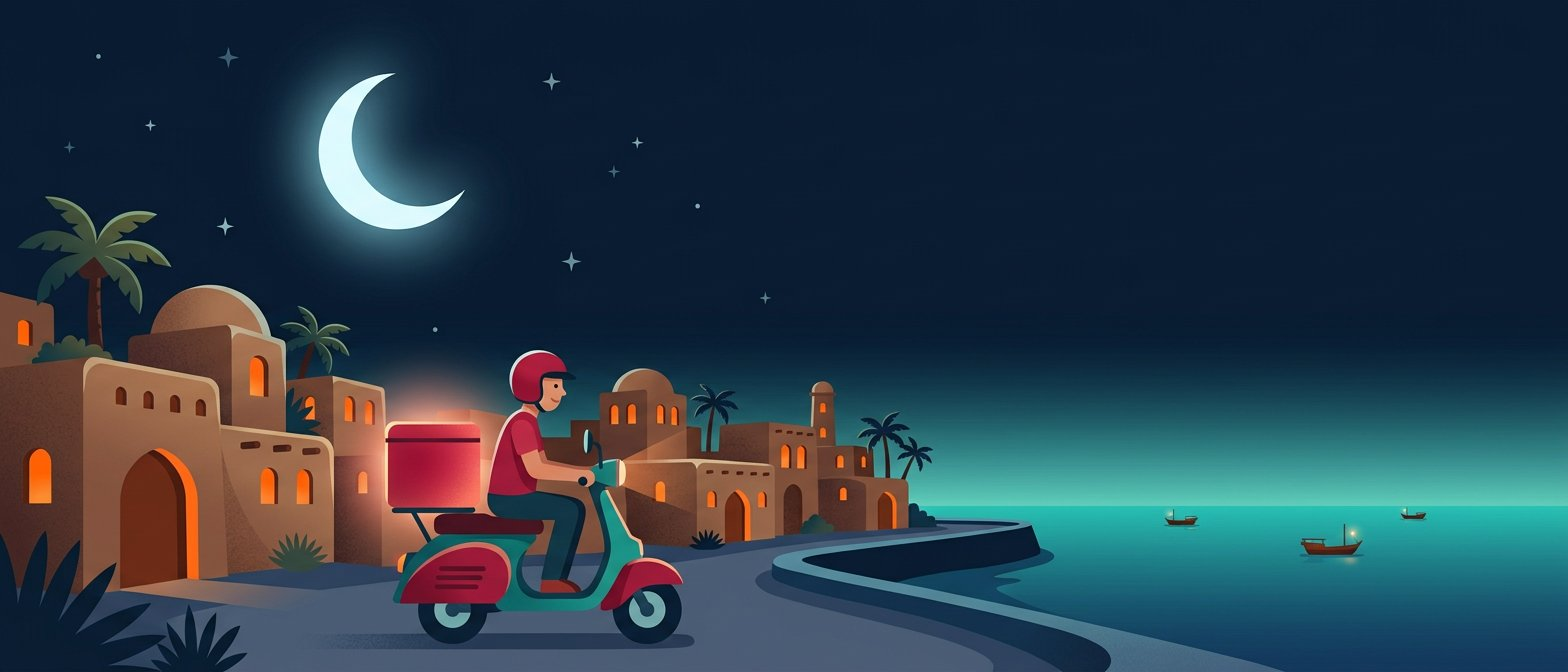
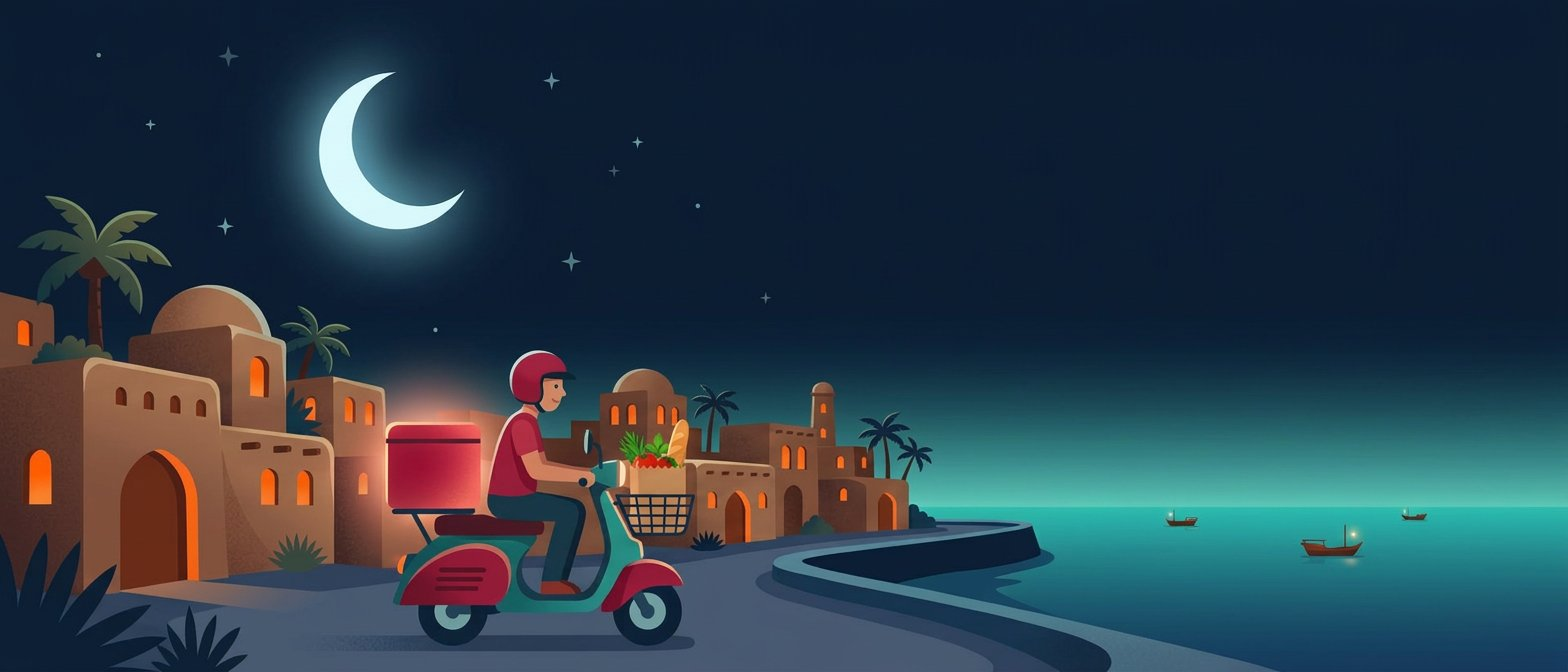
ویترین دو سرویسی: متنها و تصاویر تازه برای غذا و خرید از سوپرمارکت
- صفحهٔ اصلی: هیرو، جستوجو، دسترسی سریع، نوار اعتماد، بخش «امروز چی میخوای؟» و گامها برای هر دو سرویس بازنویسی شد
- باند تازهٔ #grocery با سه گام خرید خانه + دکمهٔ «شروع خرید خانه» و تب «خرید خانه» در نوار پایین
- تصاویر: hero-night.jpg بازسازی شد (جعبهٔ غذا + سبد خرید)، grocery-flow.jpg و cat-grocery.jpg اضافه شدند
- catalogImages: کلیدواژههای سوپرمارکت/میوه/لبنیات با تستهای تازه در storefront-assets.spec.ts
- متنهای عمومی: عنوان صفحه، manifest، README، هدر چکاوت و CSS بخش ۲۵

diff --git a/src/App.tsx b/src/App.tsx
@@ -1,7 +1,7 @@
 import { useEffect, useMemo, useState } from 'react';
 import { Search, MapPin, ShoppingBag, ChevronDown, Plus, Minus, X, ArrowLeft, Utensils, Bike, ShieldCheck, Clock3, Home, ClipboardList, Bell, Fish, ChefHat, Coffee, CakeSlice, Sparkles, Store, Wallet, ShoppingBasket } from 'lucide-react';
 import CheckoutFlow, { OrderSuccess } from './CheckoutFlow';
-import { HERO_IMAGE, photoFor } from './catalogImages';
+import { GROCERY_FLOW_IMAGE, HERO_IMAGE, photoFor } from './catalogImages';
 
 type Restaurant={id:string;name:string;description:string|null;regionName:string;regionSlug:string;deliveryFeeRial:string|null;categories:string[];accent:string;icon:string;time:string};
 type Product={id:string;name:string;description:string|null;priceRial:string;imageUrl?:string|null};
@@ -16,7 +16,7 @@ function App(){
  const [category,setCategory]=useState('همه');const [query,setQuery]=useState('');const [selected,setSelected]=useState<Restaurant|null>(null);
  const [menu,setMenu]=useState<Category[]>([]);const [menuLoading,setMenuLoading]=useState(false);const [menuError,setMenuError]=useState('');
  const [cart,setCart]=useState<Record<string,CartLine>>({});const [cartBusiness,setCartBusiness]=useState<string|null>(null);const [cartOpen,setCartOpen]=useState(false);const [checkoutOpen,setCheckoutOpen]=useState(false);const [cartMessage,setCartMessage]=useState('');const [order,setOrder]=useState<OrderResult|null>(null);
- useEffect(()=>{jsonRequest<Array<{id:string;name:string;description:string|null;region_name:string;region_slug:string;delivery_fee_rial:string|null;categories:string[]}>>('/api/v1/businesses?region=bandar-khamir').then(rows=>setRestaurants(rows.map((r,i)=>({id:r.id,name:r.name,description:r.description,regionName:r.region_name,regionSlug:r.region_slug,deliveryFeeRial:r.delivery_fee_rial,categories:r.categories||[],accent:accents[i%accents.length],icon:emojis[i%emojis.length],time:'زمان آمادهسازی با کسبوکار'})))).catch(e=>setLoadError((e as Error).message)).finally(()=>setLoading(false));},[]);
+ useEffect(()=>{jsonRequest<Array<{id:string;name:string;description:string|null;region_name:string;region_slug:string;delivery_fee_rial:string|null;categories:string[]}>>('/api/v1/businesses?region=bandar-khamir').then(rows=>setRestaurants(rows.map((r,i)=>({id:r.id,name:r.name,description:r.description,regionName:r.region_name,regionSlug:r.region_slug,deliveryFeeRial:r.delivery_fee_rial,categories:r.categories||[],accent:accents[i%accents.length],icon:emojis[i%emojis.length],time:'زمان آمادهسازی سفارش'})))).catch(e=>setLoadError((e as Error).message)).finally(()=>setLoading(false));},[]);
  useEffect(()=>{const refresh=()=>{const token=sessionStorage.getItem('jetino_customer_token');if(!token){setUnreadNotifications(0);return;}fetch('/api/v1/notifications',{headers:{Authorization:`Bearer ${token}`}}).then(r=>r.ok?r.json():null).then(data=>{if(data&&Number.isFinite(data.unreadCount))setUnreadNotifications(data.unreadCount);}).catch(()=>{});};refresh();window.addEventListener('focus',refresh);const timer=window.setInterval(refresh,60_000);return()=>{window.removeEventListener('focus',refresh);window.clearInterval(timer);};},[]);
  const categories=useMemo(()=>['همه',...new Set(restaurants.flatMap(r=>r.categories))],[restaurants]);
  const filtered=useMemo(()=>restaurants.filter(r=>(category==='همه'||r.categories.includes(category))&&(r.name+' '+(r.description||'')+' '+r.categories.join(' ')).toLocaleLowerCase().includes(query.toLocaleLowerCase())),[restaurants,category,query]);
@@ -28,21 +28,69 @@ function App(){
  const selectedCount=selected?Object.values(cart).filter(x=>x.businessId===selected.id).reduce((sum,x)=>sum+x.quantity,0):0;
  const checkout=()=>{setCartOpen(false);setCheckoutOpen(true);};
  return <div className="app-shell">
-  <header className="topbar"><a className="brand" href="#top"><span className="brand-mark">ج</span><span>جتینو<small>محلی، راحت، نزدیک</small></span></a><div className="address"><MapPin size={17}/><span><small>محدودهٔ فعلی</small><b>بندر خمیر</b></span><ChevronDown size={15}/></div><nav><a className="active" href="#restaurants"><Utensils size={15}/>رستورانها</a><a href="#how"><Sparkles size={15}/>چطور کار میکند؟</a><a href="/orders"><ClipboardList size={15}/>پیگیری سفارش</a><a href="/notifications" className="notification-nav-link"><Bell size={15}/>اعلانها{unreadNotifications>0&&<i className="notification-nav-count">{unreadNotifications>99?'۹۹+':new Intl.NumberFormat('fa-IR').format(unreadNotifications)}</i>}</a><a href="/business/orders"><Store size={15}/>ورود کسبوکار</a></nav><button className="cart-top" onClick={()=>setCartOpen(true)}><ShoppingBag size={17}/><span>سبد خرید</span>{count>0&&<i>{count}</i>}</button></header>
-  <main id="top"><section className="hero"><div className="hero-media"><img src={HERO_IMAGE.src} alt="" fetchPriority="high"/></div><div className="hero-copy"><div className="eyebrow"><span className="pulse"/> سفارش غذا در بندر خمیر</div><h1>طعم خوب،<br/><em>نزدیکِ خانهی تو</em></h1><p>از آشپزخانههای محلی بندر خمیر انتخاب کن؛ پیک را روی نقشه ببین و غذای گرم را دمِ در تحویل بگیر.</p><label className="searchbox"><Search size={19}/><input aria-label="جستوجوی رستوران یا غذا" value={query} onChange={e=>setQuery(e.target.value)} placeholder="اسم رستوران یا غذا را جستوجو کن"/></label><div className="hero-note"><span><ShieldCheck size={16}/> کد تحویل و هویت پیک</span><span><Bike size={17}/> پیگیری زندهٔ مسیر</span><span><Wallet size={16}/> پرداخت نقدی درِ خانه</span></div></div><div className="hero-art"><div className="sun"/><div className="plate"><span>🍽</span></div><div className="food-tag tag-one">🍋 تازه و محلی</div><div className="food-tag tag-two">🛵 تا دمِ در</div><div className="art-wave"/></div><div className="hero-bottom"><span>از بندر خمیر، برای بندر خمیر</span><span>یک شروع خوشمزه <b>↓</b></span></div></section>
+  <header className="topbar"><a className="brand" href="#top"><span className="brand-mark">ج</span><span>جتینو<small>محلی، راحت، نزدیک</small></span></a><div className="address"><MapPin size={17}/><span><small>محدودهٔ فعلی</small><b>بندر خمیر</b></span><ChevronDown size={15}/></div><nav><a className="active" href="#businesses"><Utensils size={15}/>غذا و خرید</a><a href="/grocery"><ShoppingBasket size={15}/>سوپرمارکت</a><a href="#how"><Sparkles size={15}/>چطور کار میکند؟</a><a href="/orders"><ClipboardList size={15}/>پیگیری سفارش</a><a href="/notifications" className="notification-nav-link"><Bell size={15}/>اعلانها{unreadNotifications>0&&<i className="notification-nav-count">{unreadNotifications>99?'۹۹+':new Intl.NumberFormat('fa-IR').format(unreadNotifications)}</i>}</a><a href="/business/orders"><Store size={15}/>ورود کسبوکار</a></nav><button className="cart-top" onClick={()=>setCartOpen(true)}><ShoppingBag size={17}/><span>سبد خرید</span>{count>0&&<i>{count}</i>}</button></header>
+  <main id="top"><section className="hero"><div className="hero-media"><img src={HERO_IMAGE.src} alt="" fetchPriority="high"/></div><div className="hero-copy"><div className="eyebrow"><span className="pulse"/> غذا و خرید روزانه در بندر خمیر</div>
+      <h1>غذای داغ، سبد پر،<br/><em>یک پیک تا درِ تو</em></h1>
+      <p>از رستورانهای محلی غذا سفارش بده یا لیست خرید خانه را به پیک بسپار؛ جتینو آشپزخانههای بندر خمیر را میشناسد و سبد خریدت را هم از سوپرمارکت پر میکند.</p>
+      <label className="searchbox"><Search size={19}/><input aria-label="جستوجوی رستوران، غذا یا سوپرمارکت" value={query} onChange={e=>setQuery(e.target.value)} placeholder="اسم رستوران، غذا یا سوپرمارکت را بنویس"/></label>
+      <div className="hero-note"><span><ShieldCheck size={16}/> هویت پیک</span><span><Bike size={17}/> پیگیری زنده</span><span><ShoppingBasket size={16}/> لیست خرید</span><span><Wallet size={16}/> نقدی یا کارتبهکارت</span></div>
+    </div><div className="hero-art"><div className="sun"/><div className="plate"><span>🍽</span></div><div className="food-tag tag-one">🍋 غذای داغ محلی</div><div className="food-tag tag-two">🛒 سبد خرید خانه</div><div className="art-wave"/></div><div className="hero-bottom"><span>از بندر خمیر، برای بندر خمیر</span><span>غذا یا خرید، هر دو <b>↓</b></span></div></section>
   <section className="quick-actions" aria-label="دسترسی سریع">
+    <button type="button" className="tile-btn" onClick={()=>{document.getElementById('businesses')?.scrollIntoView({behavior:'smooth'});}}><Utensils size={22}/><span>منوی امروز</span></button>
+    <button type="button" className="tile-btn grocery-tile" onClick={()=>{window.location.href='/grocery';}}><ShoppingBasket size={22}/><span>خرید خانه</span></button>
     <button type="button" className="tile-btn" onClick={()=>{window.location.href='/orders';}}><ClipboardList size={22}/><span>پیگیری سفارش</span></button>
-    <button type="button" className="tile-btn" onClick={()=>{document.getElementById('restaurants')?.scrollIntoView({behavior:'smooth'});}}><Utensils size={22}/><span>منوی امروز</span></button>
     <button type="button" className="tile-btn" onClick={()=>{window.location.href='/join/driver';}}><Bike size={22}/><span>پیک شو</span></button>
-    <button type="button" className="tile-btn" onClick={()=>{window.location.href='/join/business';}}><Store size={22}/><span>ثبت کسبوکار</span></button>
-    <button type="button" className="tile-btn" onClick={()=>{window.location.href='/grocery';}}><ShoppingBasket size={22}/><span>خرید از سوپرمارکت</span></button>
+</section>
+  <section className="trust-strip">
+    <div><strong>محلی و نزدیک</strong><span>رستورانها و سوپرمارکتهای شهر</span></div>
+    <div><strong>غذا و خرید</strong><span>یک اپ، دو سرویس</span></div>
+    <div><strong>شفاف و ساده</strong><span>هزینهها پیش از سفارش</span></div>
+    <div><strong>پرداخت دلخواه</strong><span>نقدی یا کارتبهکارت</span></div>
+    <span className="strip-icon">✳</span>
   </section>
-  <section className="trust-strip"><div><strong>محلی و نزدیک</strong><span>انتخاب کسبوکارهای شهر</span></div><div><strong>شفاف و ساده</strong><span>هزینهها پیش از ثبت سفارش</span></div><div><strong>پرداخت نقدی</strong><span>هزینه هنگام تحویل</span></div><span className="strip-icon">✳</span></section>
-  <section id="restaurants" className="listing"><div className="section-head"><div><div className="eyebrow muted">پیشنهادهای جتینو</div><h2>چی هوس کردی؟</h2></div><span className="filter-button">{filtered.length} کسبوکار <ChevronDown size={15}/></span></div><div className="categories">{categories.map((c,i)=>{const Icon=[Sparkles,Fish,ChefHat,Coffee,CakeSlice,Utensils][i%6]||Utensils;return <button key={c} className={category===c?'chosen':''} onClick={()=>setCategory(c)}><Icon size={14}/>{c}</button>;})}</div><div className="result-count">{loading?'در حال دریافت فهرست کسبوکارها…':`${filtered.length} کسبوکار برای انتخاب تو`}</div><div className="restaurant-grid">{loading&&Array.from({length:3},(_,i)=><div className="skeleton skeleton-card" aria-hidden="true" key={i}/>)}{filtered.map(r=><button className="restaurant-card" key={r.id} onClick={()=>void openBusiness(r)}><div className={`restaurant-image ${r.accent}`}><img className="object-cover" src={photoFor(r.name,...r.categories).src} alt="" loading="lazy"/><span className="ribbon">{r.regionName}</span><span className="photo-label">تصویر پیشنهادی</span></div><div className="card-info"><div className="card-title"><h3>{r.name}</h3><span className="rating"><MapPin size={13}/>محلی</span></div><p>{r.categories.join(' · ')||'منوی غذایی'}</p><div className="card-meta"><span><Clock3 size={14}/>{r.time}</span><span className="dot">·</span><span>ارسال {r.deliveryFeeRial===null?'هزینه نامشخص':money(r.deliveryFeeRial)}</span></div></div></button>)}</div>{!loading&&filtered.length===0&&<div className="empty">{loadError?`دریافت فهرست ناموفق بود (${loadError})؛ اتصال API و دیتابیس را بررسی کنید.`:'در این دسته هنوز کسبوکار فعالی ثبت نشده است.'}</div>}</section>
-  <section className="how" id="how"><div className="how-heading"><div className="eyebrow muted">سفارش، بیدردسر</div><h2>از انتخاب تا تحویل،<br/>همهچیز روشنه.</h2></div><div className="steps"><div><b>۰۱</b><span>کشف کن</span><p>از بین کسبوکارهای محلی، انتخاب کن.</p></div><div><b>۰۲</b><span>سفارش بده</span><p>منو را ببین و غذای دلخواهت را اضافه کن.</p></div><div><b>۰۳</b><span>لذت ببر</span><p>پرداخت را نقدی هنگام تحویل انجام بده.</p></div></div></section>
-  </main><nav className="tabbar" aria-label="دسترسی سریع"><a className="active" href="#top"><Home size={20}/>خانه</a><a href="/orders"><ClipboardList size={20}/>سفارشها</a><a href="/notifications"><Bell size={20}/>اعلانها{unreadNotifications>0&&<span>{new Intl.NumberFormat("fa-IR").format(unreadNotifications)}</span>}</a><button type="button" onClick={()=>setCartOpen(true)}><ShoppingBag size={20}/>سبد خرید{count>0&&<span>{new Intl.NumberFormat("fa-IR").format(count)}</span>}</button></nav><footer><a className="brand" href="#top"><span className="brand-mark">ج</span><span>جتینو<small>محلی، راحت، نزدیک</small></span></a><span>ساختهشده با عشق برای بندر خمیر <b>♥</b></span><a className="footer-link" href="/orders">پیگیری سفارش</a><a className="footer-link" href="/notifications">اعلانها</a><a className="footer-link" href="/join/business">ثبت کسبوکار</a><a className="footer-link" href="/join/driver">ثبتنام راننده</a><a className="footer-link" href="/business/orders">پنل کسبوکار</a><a className="footer-link" href="/driver/deliveries">ورود راننده</a><span>© جتینو ۱۴۰۵</span></footer>
+
+  <section id="grocery" className="grocery-band" aria-labelledby="grocery-title">
+    <div className="grocery-band-copy">
+      <div className="eyebrow"><ShoppingBasket size={14}/> سوپرمارکت با جتینو</div>
+      <h2 id="grocery-title">لیست بنویس،<br/><em>پیک خرید را میآورد</em></h2>
+      <p>لازم نیست از خانه بیرون بزنی. لیست خریدت را مینویسی، پیکهای محلی قیمت ماموریت میدهند و بعد از پرداخت کرایه، خرید انجام و دمِ در تحویل میشود.</p>
+      <ol className="grocery-band-steps">
+        <li><b>۱</b><span>لیست را بنویس</span><small>«۲ کیلو سیب، نان، ماست و…»</small></li>
+        <li><b>۲</b><span>پیشنهاد پیک را ببین</span><small>قیمت ماموریت شفاف و قابل انتخاب</small></li>
+        <li><b>۳</b><span>فاکتور و تحویل</span><small>تأیید فاکتور، پرداخت و پیگیری زنده</small></li>
+      </ol>
+      <div className="grocery-band-actions">
+        <a className="grocery-band-cta" href="/grocery">شروع خرید خانه <ArrowLeft size={16}/></a>
+        <span className="grocery-band-note">سوپرمارکتهای شهر هم بهزودی سبد محصولاتشان را میگذارند.</span>
+      </div>
+    </div>
+    <div className="grocery-band-media">
+      <img src={GROCERY_FLOW_IMAGE.src} alt={GROCERY_FLOW_IMAGE.alt} loading="lazy"/>
+    </div>
+  </section>
+
+  <section id="businesses" className="listing"><div className="section-head"><div><div className="eyebrow muted">از آشپزخانه تا قفسهٔ سوپرمارکت</div><h2>امروز چی میخوای؟</h2></div><span className="filter-button">{filtered.length} کسبوکار <ChevronDown size={15}/></span></div><div className="categories">{categories.map((c,i)=>{const Icon=[Sparkles,Fish,ChefHat,Coffee,CakeSlice,Utensils][i%6]||Utensils;return <button key={c} className={category===c?'chosen':''} onClick={()=>setCategory(c)}><Icon size={14}/>{c}</button>;})}</div><div className="result-count">{loading?'در حال دریافت فهرست کسبوکارها…':`${filtered.length} کسبوکار برای انتخاب تو · غذا و خرید خانه`}</div><div className="restaurant-grid">{loading&&Array.from({length:3},(_,i)=><div className="skeleton skeleton-card" aria-hidden="true" key={i}/>)}{filtered.map(r=><button className="restaurant-card" key={r.id} onClick={()=>void openBusiness(r)}><div className={`restaurant-image ${r.accent}`}><img className="object-cover" src={photoFor(r.name,...r.categories).src} alt="" loading="lazy"/><span className="ribbon">{r.regionName}</span><span className="photo-label">تصویر پیشنهادی</span></div><div className="card-info"><div className="card-title"><h3>{r.name}</h3><span className="rating"><MapPin size={13}/>محلی</span></div><p>{r.categories.join(' · ')||'منوی غذایی'}</p><div className="card-meta"><span><Clock3 size={14}/>{r.time}</span><span className="dot">·</span><span>ارسال {r.deliveryFeeRial===null?'هزینه نامشخص':money(r.deliveryFeeRial)}</span></div></div></button>)}</div>{!loading&&filtered.length===0&&<div className="empty">{loadError?`دریافت فهرست ناموفق بود (${loadError})؛ اتصال API و دیتابیس را بررسی کنید.`:'در این دسته هنوز کسبوکاری ثبت نشده است؛ دستهٔ دیگری را امتحان کن.'}</div>}</section>
+  <section className="how" id="how">
+    <div className="how-heading">
+      <div className="eyebrow muted">دو سرویس، یک پیک</div>
+      <h2>سفارش غذا یا خرید خانه،<br/>هر دو ساده.</h2>
+    </div>
+    <div className="steps">
+      <div><b>۰۱</b><span>کشف کن</span><p>از رستورانها و سوپرمارکتهای محلی انتخاب کن.</p></div>
+      <div><b>۰۲</b><span>سفارش بده</span><p>از منو انتخاب کن یا لیست خریدت را بنویس.</p></div>
+      <div><b>۰۳</b><span>تأیید کن</span><p>هزینهٔ ارسال یا ماموریت را شفاف ببین و تأیید کن.</p></div>
+      <div><b>۰۴</b><span>تحویل بگیر</span><p>مسیر را زنده ببین و نقدی یا کارتبهکارت پرداخت کن.</p></div>
+    </div>
+  </section>
+  </main><nav className="tabbar" aria-label="دسترسی سریع">
+    <a className="active" href="#top"><Home size={20}/>خانه</a>
+    <a href="#businesses"><Utensils size={20}/>غذا</a>
+    <a href="/grocery"><ShoppingBasket size={20}/>خرید خانه</a>
+    <a href="/orders"><ClipboardList size={20}/>سفارشها</a>
+    <a href="/notifications"><Bell size={20}/>اعلانها{unreadNotifications>0&&<span>{new Intl.NumberFormat('fa-IR').format(unreadNotifications)}</span>}</a>
+  </nav><footer><a className="brand" href="#top"><span className="brand-mark">ج</span><span>جتینو<small>محلی، راحت، نزدیک</small></span></a><span>ساختهشده با عشق برای بندر خمیر <b>♥</b></span><a className="footer-link" href="/orders">پیگیری سفارش</a><a className="footer-link" href="/grocery">خرید از سوپرمارکت</a><a className="footer-link" href="/notifications">اعلانها</a><a className="footer-link" href="/join/business">ثبت کسبوکار</a><a className="footer-link" href="/join/driver">ثبتنام راننده</a><a className="footer-link" href="/business/orders">پنل کسبوکار</a><a className="footer-link" href="/driver/deliveries">ورود راننده</a><span>© جتینو ۱۴۰۵</span></footer>
   {selected&&<div className="overlay" onClick={()=>setSelected(null)}><div className="modal" onClick={e=>e.stopPropagation()}><button className="close" aria-label="بستن منو" onClick={()=>setSelected(null)}><X size={19}/></button><div className={`modal-cover ${selected.accent}`}><img src={photoFor(selected.name,...selected.categories).src} alt=""/><span className="photo-label">تصویر پیشنهادی</span></div><div className="modal-body"><div className="card-title"><div><h2>{selected.name}</h2><p>{selected.categories.join(' · ')||selected.regionName}</p></div><span className="rating"><MapPin size={14}/>{selected.regionName}</span></div><div className="modal-meta"><span><Clock3 size={15}/>{selected.time}</span><span>ارسال {selected.deliveryFeeRial===null?'هزینه نامشخص':money(selected.deliveryFeeRial)}</span></div><h3 className="menu-title">منو</h3>{menuLoading?<div className="menu-loading">در حال دریافت منو…</div>:menuError?<div className="empty">دریافت منو ناموفق بود: {menuError}</div>:menu.flatMap(c=>c.products.map(p=><div className="dish" key={p.id}><div className={`dish-emoji${p.imageUrl?' real-photo':''}`}><img src={p.imageUrl||photoFor(p.name,c.name).src} alt={p.imageUrl?p.name:''} loading="lazy"/></div><div className="dish-info"><b>{p.name}</b><small>{p.description||c.name}</small><strong>{money(p.priceRial)}</strong></div><div className="dish-actions">{cart[p.id]&&<button className="quantity-mini" aria-label={`کم کردن ${p.name}`} onClick={()=>remove(p.id)}><Minus size={13}/></button>}<button className="add" aria-label="افزودن به سبد" onClick={()=>add(p,selected)}>{cart[p.id]?.quantity||<Plus size={18}/>}</button></div></div>))}{cartMessage&&<div className="checkout-error">{cartMessage}<button onClick={clearCart}>خالی کردن سبد</button></div>}</div><button className="modal-cart" disabled={selectedCount===0} onClick={()=>{setSelected(null);setCartOpen(true);}}>دیدن سبد خرید <ArrowLeft size={17}/>{selectedCount>0&&<span>{selectedCount} قلم</span>}</button></div></div>}
-  {cartOpen&&<div className="overlay" onClick={()=>setCartOpen(false)}><div className="cart-drawer" onClick={e=>e.stopPropagation()}><div className="drawer-head"><div><h2>سبد خرید</h2><span>{count} قلم · {lines[0]?.businessId?restaurants.find(r=>r.id===lines[0].businessId)?.name:''}</span></div><button className="close" aria-label="بستن سبد خرید" onClick={()=>setCartOpen(false)}><X/></button></div>{count? <><div className="cart-lines">{lines.map(item=><div className="cart-line" key={item.productId}><span><img src={item.imageUrl||photoFor(item.name).src} alt="" loading="lazy"/></span><div><b>{item.name}</b><small>{money(item.priceRial)}</small></div><div className="quantity"><button aria-label={`کم کردن ${item.name}`} onClick={()=>remove(item.productId)}><Minus size={14}/></button>{item.quantity}<button aria-label={`افزودن ${item.name}`} onClick={()=>add({id:item.productId,name:item.name,description:item.description,priceRial:item.priceRial},restaurants.find(r=>r.id===item.businessId)!)}><Plus size={14}/></button></div></div>)}</div><div className="cart-total"><span>جمع اقلام</span><b>{money(subtotal)}</b></div>{cartMessage&&<div className="checkout-error">{cartMessage}</div>}<button className="checkout" onClick={checkout}>ادامه و ثبت سفارش نقدی <ArrowLeft size={17}/></button><button className="text-button" onClick={clearCart}>خالی کردن سبد</button></>:<div className="cart-empty"><span>🛍</span><h3>سبدت هنوز خالیه</h3><p>یک کسبوکار انتخاب کن و خوراکی دلخواهت را پیدا کن.</p><button onClick={()=>setCartOpen(false)}>رفتن به رستورانها</button></div>}</div></div>}
+  {cartOpen&&<div className="overlay" onClick={()=>setCartOpen(false)}><div className="cart-drawer" onClick={e=>e.stopPropagation()}><div className="drawer-head"><div><h2>سبد خرید</h2><span>{count} قلم · {lines[0]?.businessId?restaurants.find(r=>r.id===lines[0].businessId)?.name:''}</span></div><button className="close" aria-label="بستن سبد خرید" onClick={()=>setCartOpen(false)}><X/></button></div>{count? <><div className="cart-lines">{lines.map(item=><div className="cart-line" key={item.productId}><span><img src={item.imageUrl||photoFor(item.name).src} alt="" loading="lazy"/></span><div><b>{item.name}</b><small>{money(item.priceRial)}</small></div><div className="quantity"><button aria-label={`کم کردن ${item.name}`} onClick={()=>remove(item.productId)}><Minus size={14}/></button>{item.quantity}<button aria-label={`افزودن ${item.name}`} onClick={()=>add({id:item.productId,name:item.name,description:item.description,priceRial:item.priceRial},restaurants.find(r=>r.id===item.businessId)!)}><Plus size={14}/></button></div></div>)}</div><div className="cart-total"><span>جمع اقلام</span><b>{money(subtotal)}</b></div>{cartMessage&&<div className="checkout-error">{cartMessage}</div>}<button className="checkout" onClick={checkout}>ادامه و ثبت سفارش نقدی <ArrowLeft size={17}/></button><button className="text-button" onClick={clearCart}>خالی کردن سبد</button></>:<div className="cart-empty"><span>🛍</span><h3>سبدت هنوز خالیه</h3><p>یک کسبوکار انتخاب کن؛ غذا یا خرید خانه، هرچه لازم داری.</p><button onClick={()=>setCartOpen(false)}>دیدن کسبوکارها</button></div>}</div></div>}
   {checkoutOpen&&cartBusiness&&<CheckoutFlow businessId={cartBusiness} businessName={restaurants.find(r=>r.id===cartBusiness)?.name||'کسبوکار'} items={lines} onClose={()=>setCheckoutOpen(false)} onComplete={created=>{setCheckoutOpen(false);clearCart();setOrder(created);}}/>}
   {order&&<OrderSuccess order={order} onClose={()=>setOrder(null)}/>}
  </div>

diff --git a/src/CheckoutFlow.tsx b/src/CheckoutFlow.tsx
@@ -32,7 +32,7 @@ export default function CheckoutFlow({businessId,businessName,items,onClose,onCo
  const getQuote=async()=>{setBusy(true);setError('');setQuote(null);try{const result=await request<Quote>('/api/v1/orders/quote',token,'POST',{businessId,addressId:selectedAddress,items:items.map(item=>({productId:item.productId,quantity:item.quantity}))});setQuote(result);setNotice('مبلغ بر اساس قیمت فعلی سرور محاسبه شد.');}catch(e){setError((e as Error).message);}finally{setBusy(false);}};
  const placeOrder=async()=>{setBusy(true);setError('');try{idempotencyKey.current??=crypto.randomUUID();const order=await request<OrderResult>('/api/v1/orders',token,'POST',{businessId,addressId:selectedAddress,paymentMethod:'CASH',items:items.map(item=>({productId:item.productId,quantity:item.quantity}))},{'Idempotency-Key':idempotencyKey.current});idempotencyKey.current=null;onComplete(order);}catch(e){setError((e as Error).message);}finally{setBusy(false);}};
  const totalItems=items.reduce((sum,item)=>sum+item.quantity,0);
- return <div className="overlay checkout-overlay" onClick={onClose}><section className="checkout-panel" role="dialog" aria-modal="true" aria-label="تکمیل سفارش" onClick={e=>e.stopPropagation()}><header className="checkout-head"><div><small>ثبت سفارش</small><h2>یک قدم تا غذای خوشمزه</h2></div><button className="close" onClick={onClose}><X size={19}/></button></header>
+ return <div className="overlay checkout-overlay" onClick={onClose}><section className="checkout-panel" role="dialog" aria-modal="true" aria-label="تکمیل سفارش" onClick={e=>e.stopPropagation()}><header className="checkout-head"><div><small>ثبت سفارش</small><h2>یک قدم تا تحویل سفارش</h2></div><button className="close" onClick={onClose}><X size={19}/></button></header>
  {!token?<div className="checkout-body"><div className="checkout-step-title"><b>۱</b><div><strong>ورود با شماره موبایل</strong><small>برای ثبت و پیگیری سفارش</small></div></div>{authStep==='phone'?<><label className="checkout-label">شماره موبایل</label><input className="checkout-input" value={phone} onChange={e=>setPhone(toAsciiDigits(e.target.value))} placeholder="۰۹۱۲۳۴۵۶۷۸۹" inputMode="tel"/><button className="checkout-action" disabled={busy||!phone.trim()} onClick={sendCode}>{busy?'در حال ارسال…':'دریافت کد پیامکی'}<ArrowLeft size={16}/></button></>:<><label className="checkout-label">کد پیامکشده</label><input className="checkout-input otp-entry" value={code} onChange={e=>setCode(toAsciiDigits(e.target.value).replace(/\D/g,'').slice(0,6))} placeholder="کد ۶ رقمی" inputMode="numeric"/><button className="checkout-action" disabled={busy||code.length!==6} onClick={verify}>{busy?'در حال بررسی…':'تأیید و ادامه'}<ArrowLeft size={16}/></button><button className="checkout-back" onClick={()=>setAuthStep('phone')}>ویرایش شماره</button></>}</div>:<div className="checkout-body"><div className="checkout-step-title"><b>۱</b><div><strong>نشانی تحویل</strong><small>سفارش از {businessName}</small></div></div>{addresses.length>0&&<><label className="checkout-label">انتخاب نشانی ذخیرهشده</label><select className="checkout-input address-select" value={selectedAddress} onChange={e=>{setSelectedAddress(e.target.value);setQuote(null);}}>{addresses.map(a=><option key={a.id} value={a.id}>{a.label} — {a.addressText}</option>)}</select><div className="address-actions"><button type="button" className="outline-action" disabled={busy||!selectedAddress} onClick={startEditAddress}><Pencil size={14}/>ویرایش نشانی و نقطه</button>{!addresses.find(a=>a.id===selectedAddress)?.isDefault&&<button type="button" className="outline-action" disabled={busy||!selectedAddress} onClick={makeDefaultAddress}><Star size={14}/>پیشفرضکردن</button>}<button type="button" className="address-delete" disabled={busy||!selectedAddress} onClick={()=>void deleteAddress()}><Trash2 size={14}/>حذف</button></div></>}
  <details className="address-form" open={addressFormOpen} onToggle={e=>setAddressFormOpen(e.currentTarget.open)}><summary><MapPin size={15}/>{editingAddressId?'ویرایش نشانی':addresses.length?'افزودن نشانی جدید':'ثبت نشانی تحویل'}</summary><button type="button" className="outline-action location-action" onClick={locate} disabled={locating||busy}><MapPin size={15}/>{locating?'در حال دریافت موقعیت…':'استفاده از موقعیت فعلی'}</button>{addressFormOpen&&(import.meta.env.VITE_NESHAN_API_KEY?<Suspense fallback={<div className="map-unavailable">در حال بارگذاری نقشهٔ نشان…</div>}><NeshanMapPicker value={coordinates?.latitude&&coordinates?.longitude?{latitude:Number(coordinates.latitude),longitude:Number(coordinates.longitude)}:null} onChange={point=>setCoordinates({latitude:point.latitude.toFixed(6),longitude:point.longitude.toFixed(6)})}/></Suspense>:<div className="map-unavailable">برای نمایش نقشهٔ نشان، کلید عمومی را در <code>VITE_NESHAN_API_KEY</code> تنظیم کنید. ورود مختصات دستی همچنان در دسترس است.</div>)}<div className="manual-coordinates"><label className="checkout-label">عرض جغرافیایی (اختیاری)<input className="checkout-input" type="number" min="-90" max="90" step="0.000001" value={coordinates?.latitude||''} onChange={e=>setCoordinates({latitude:e.target.value,longitude:coordinates?.longitude||''})} placeholder="مثلاً 27.20"/></label><label className="checkout-label">طول جغرافیایی (اختیاری)<input className="checkout-input" type="number" min="-180" max="180" step="0.000001" value={coordinates?.longitude||''} onChange={e=>setCoordinates({latitude:coordinates?.latitude||'',longitude:e.target.value})} placeholder="مثلاً 55.75"/></label></div>{coordinates?.latitude&&coordinates?.longitude&&<small className="location-coordinates">مختصات این نشانی: {coordinates.latitude}, {coordinates.longitude}</small>}<label className="checkout-label">عنوان نشانی</label><input className="checkout-input" value={newLabel} onChange={e=>setNewLabel(e.target.value)} placeholder="خانه، محل کار…"/><label className="checkout-label">آدرس کامل</label><textarea className="checkout-input address-textarea" value={newAddress} onChange={e=>setNewAddress(e.target.value)} placeholder="خیابان، کوچه، پلاک و نشانهٔ نزدیک"/><label className="checkout-label">توضیحات تحویل (اختیاری)</label><input className="checkout-input" value={instructions} onChange={e=>setInstructions(e.target.value)} placeholder="مثلاً زنگ واحد ۲ را بزنید"/><button className="outline-action" disabled={busy||!newAddress.trim()} onClick={saveAddress}>{editingAddressId?'ذخیرهٔ تغییرات':'ذخیرهٔ نشانی'}</button>{editingAddressId&&<button className="checkout-back" disabled={busy} onClick={()=>{setEditingAddressId(null);setCoordinates(null);setNewAddress('');setInstructions('');setAddressFormOpen(false);}}>انصراف از ویرایش</button>}</details>
  {selectedAddress&&<button className="outline-action quote-action" disabled={busy} onClick={getQuote}>{busy?'در حال محاسبه…':'محاسبهٔ مبلغ نهایی'}</button>}

diff --git a/src/next.css b/src/next.css
@@ -864,3 +864,55 @@ input[type="checkbox"], input[type="radio"] { accent-color: var(--brand-bright);
 .ltr-input { direction: ltr; text-align: left; letter-spacing: .06em; font-variant-numeric: tabular-nums; }
 .ltr-hint { direction: rtl; text-align: right; }
 .grocery-copy-text b { letter-spacing: .05em; }
+
+/* ۲۵) دو سرویس: غذا و خرید خانه (باند سوپرمارکت در صفحهٔ اصلی) */
+.quick-actions .grocery-tile {
+  background: linear-gradient(150deg, color-mix(in srgb, var(--brand) 22%, var(--surface)), var(--surface));
+  border-color: color-mix(in srgb, var(--brand) 38%, var(--line));
+}
+.quick-actions .grocery-tile svg { background: color-mix(in srgb, var(--brand) 26%, transparent); color: #fff; }
+.trust-strip { grid-template-columns: repeat(4, minmax(0, 1fr)); }
+.grocery-band {
+  display: grid; grid-template-columns: 1.02fr .98fr; align-items: stretch;
+  margin: 24px 0 34px; border-radius: var(--r-hero); overflow: hidden;
+  border: 1px solid var(--line); background: var(--surface); box-shadow: var(--shadow-sm);
+}
+.grocery-band-copy { display: grid; gap: 12px; align-content: center; padding: clamp(22px, 3vw, 38px); }
+.grocery-band-copy .eyebrow { color: color-mix(in srgb, var(--teal) 72%, var(--ink)); display: inline-flex; align-items: center; gap: 7px; }
+.grocery-band-copy h2 { font-size: clamp(21px, 2.4vw, 29px); line-height: 1.55; margin: 0; color: var(--ink); }
+.grocery-band-copy h2 em { font-style: normal; color: var(--brand-bright); }
+.grocery-band-copy > p { margin: 0; font-size: 13px; line-height: 2.1; color: var(--ink-2); }
+.grocery-band-steps { list-style: none; margin: 4px 0 0; padding: 0; display: grid; gap: 9px; }
+.grocery-band-steps li { display: grid; grid-template-columns: auto 1fr; gap: 4px 10px; align-items: center; padding: 10px 12px; border-radius: 14px; background: var(--surface-2); border: 1px solid var(--line); }
+.grocery-band-steps b { grid-row: span 2; width: 26px; height: 26px; display: grid; place-items: center; border-radius: 9px; font-size: 12px; background: color-mix(in srgb, var(--teal) 22%, transparent); color: color-mix(in srgb, var(--teal) 80%, var(--ink)); }
+.grocery-band-steps span { font-size: 12.5px; font-weight: 700; color: var(--ink); }
+.grocery-band-steps small { font-size: 10.5px; color: var(--muted); }
+.grocery-band-actions { display: flex; align-items: center; gap: 12px; flex-wrap: wrap; margin-top: 4px; }
+.grocery-band-cta { display: inline-flex; align-items: center; gap: 8px; padding: 12px 18px; border-radius: var(--r-pill); background: var(--brand); color: #fff; font-size: 12.5px; font-weight: 800; text-decoration: none; box-shadow: 0 12px 26px color-mix(in srgb, var(--brand) 34%, transparent); transition: transform var(--t-fast) var(--spring), background var(--t-fast) var(--ease); }
+.grocery-band-cta:hover { transform: translateY(-2px); background: var(--brand-bright); }
+.grocery-band-cta svg { transform: rotate(180deg); }
+.grocery-band-note { font-size: 10.5px; color: var(--muted); line-height: 1.9; max-width: 280px; }
+.grocery-band-media { position: relative; min-height: 300px; }
+.grocery-band-media img { position: absolute; inset: 0; width: 100%; height: 100%; object-fit: cover; }
+.grocery-band-media { border-inline-start: 1px solid var(--line); }
+@media (max-width: 900px) {
+  .trust-strip { grid-template-columns: repeat(2, minmax(0, 1fr)); }
+  .grocery-band { grid-template-columns: 1fr; }
+  .grocery-band-media { order: -1; min-height: 190px; border-inline-start: 0; border-bottom: 1px solid var(--line); }
+  .grocery-band-note { max-width: none; }
+  .tabbar { grid-template-columns: repeat(5, minmax(0, 1fr)) !important; }
+  .tabbar a, .tabbar button { font-size: 9px; padding: 8px 2px; }
+}
+@media (max-width: 720px) {
+  /* the story (food box + grocery basket) stays visible behind the headline on phones */
+  .hero::after {
+    background:
+      linear-gradient(165deg, rgba(9, 20, 33, .93) 12%, rgba(9, 20, 33, .8) 58%, rgba(9, 20, 33, .62)),
+      radial-gradient(80% 60% at 12% 18%, rgba(9, 20, 33, 0), rgba(9, 20, 33, .35));
+  }
+  .hero-copy { padding-bottom: 44px; }
+  .hero-note { flex-wrap: wrap; row-gap: 8px; column-gap: 12px; }
+  .hero-note span { font-size: 10px; padding: 6px 9px; background: rgba(9, 20, 33, .58); }
+  .hero h1 { text-shadow: 0 2px 18px rgba(5, 12, 20, .55); }
+  .hero-copy > p { text-shadow: 0 1px 12px rgba(5, 12, 20, .5); }
+}

diff --git a/src/catalogImages.ts b/src/catalogImages.ts
@@ -13,14 +13,26 @@ const PHOTOS = {
   seafood: { src: '/images/cat-seafood.jpg', alt: 'قلیه ماهی جنوبی با سس ترش و سبزی' },
   stew: { src: '/images/cat-stew.jpg', alt: 'خورشت سبزی با لیمو عمانی و برنج' },
   bakery: { src: '/images/cat-bakery.jpg', alt: 'نان محلی، خرما و شیرینی سنتی' },
+  grocery: { src: '/images/cat-grocery.jpg', alt: 'سبد خرید تازه: سبزی، گوجه، خیار، نان و لبنیات' },
   dessert: { src: '/images/cat-dessert.jpg', alt: 'شربت تازه، لیمو نعنا و بستنی سنتی' },
 } satisfies Record<string, CatalogPhoto>;
 
-export const HERO_IMAGE: CatalogPhoto = { src: '/images/hero-night.jpg', alt: 'شب بندر خمیر؛ پیک با جعبهٔ غذای زرشکی و ماه کامل روی خلیج' };
+export const HERO_IMAGE: CatalogPhoto = {
+  src: '/images/hero-night.jpg',
+  alt: 'شب بندر خمیر؛ پیک جتینو با جعبهٔ غذای زرشکی و سبد خرید تازه روی موتور، زیر ماه کامل',
+};
+
+/** The night-time doorstep scene that illustrates the supermarket flow on the storefront. */
+export const GROCERY_FLOW_IMAGE: CatalogPhoto = {
+  src: '/images/grocery-flow.jpg',
+  alt: 'پیک جتینو سبد خرید پر از سبزی و نان را دمِ درِ خانهٔ مشتری میآورد',
+};
 
 /** Ordered so the most specific southern keywords win over the generic ones. */
 const KEYWORDS: [RegExp, keyof typeof PHOTOS][] = [
   [/قلیه|قاليه|ماهی|میگو|دریایی|سبزه|میوه دریایی/i, 'seafood'],
+  // grocery shops must win over the bakery rule, otherwise «سوپرمارکت نان تازه» shows bread only
+  [/سوپرمارکت|هایپر|بقالی|خواربار|میوهفروشی|میوه و سبزیجات|سبزیجات|لبنیات|قفسه|خرید روزانه|خرید خانه/i, 'grocery'],
   [/جوجه|جوجهکباب|کبابپز|کبابی|کوبده|چلوکباب|کباب/i, 'kebab'],
   [/زغال|گریل|برگر|پیتزا|ساندویچ|سندویچ|همبرگر|شیشلیک|بریان|جگر/i, 'grill'],
   [/خورشت|قورمه|فسنجان|قیمه|گوشت|آبگوشت|دیزی|استامبولی|لوبیا/i, 'stew'],
@@ -28,7 +40,7 @@ const KEYWORDS: [RegExp, keyof typeof PHOTOS][] = [
   [/دسر|بستنی|شربت|آبمیوه|نوشیدنی|قهوه|چای|کافه|شیک/i, 'dessert'],
 ];
 
-const ORDER: (keyof typeof PHOTOS)[] = ['kebab', 'grill', 'seafood', 'stew', 'bakery', 'dessert'];
+const ORDER: (keyof typeof PHOTOS)[] = ['kebab', 'grill', 'seafood', 'stew', 'bakery', 'dessert', 'grocery'];
 
 const hash = (text: string) => {
   let value = 0;

diff --git a/api/src/storefront-assets.spec.ts b/api/src/storefront-assets.spec.ts
@@ -2,7 +2,7 @@ import { strict as assert } from 'node:assert';
 import { existsSync, readFileSync } from 'node:fs';
 import { resolve } from 'node:path';
 import { describe, it } from 'node:test';
-import { HERO_IMAGE, photoFor } from '../../src/catalogImages';
+import { GROCERY_FLOW_IMAGE, HERO_IMAGE, photoFor } from '../../src/catalogImages';
 
 const root = resolve(__dirname, '../..');
 const publicFile = (url: string) => resolve(root, 'public', url.replace(/^\//, ''));
@@ -14,12 +14,18 @@ describe('storefront images and install icons', () => {
     assert.equal(photoFor('خورشت قورمه سبزی').src, '/images/cat-stew.jpg');
     assert.equal(photoFor('نان محلی').src, '/images/cat-bakery.jpg');
     assert.equal(photoFor('شربت لیمو').src, '/images/cat-dessert.jpg');
+    // the supermarket service needs its own picture: grocery shops must not fall back to food
+    assert.equal(photoFor('سوپرمارکت محله').src, '/images/cat-grocery.jpg');
+    assert.equal(photoFor('هایپر مرکزی', 'میوه و سبزیجات').src, '/images/cat-grocery.jpg');
+    // «قورمه سبزی» is a stew, not a greengrocer
+    assert.equal(photoFor('خورشت قورمه سبزی').src, '/images/cat-stew.jpg');
   });
   it('picks a stable image when a business has no known category', () => {
     assert.deepEqual(photoFor('کسبوکار ناشناخته'), photoFor('کسبوکار ناشناخته'));
   });
   it('ships every representative photo inside public', () => {
-    for (const photo of [HERO_IMAGE, ...['کباب', 'زغال', 'ماهی', 'خورشت', 'نان', 'شربت'].map((term) => photoFor(term))]) {
+    const terms = ['کباب', 'زغال', 'ماهی', 'خورشت', 'نان', 'شربت', 'سوپرمارکت', 'لبنیات'];
+    for (const photo of [HERO_IMAGE, GROCERY_FLOW_IMAGE, ...terms.map((term) => photoFor(term))]) {
       assert.ok(existsSync(publicFile(photo.src)), `${photo.src} should exist in the static build`);
     }
   });

diff --git a/index.html b/index.html
@@ -1,5 +1,5 @@
 <!doctype html>
-<html lang="fa" dir="rtl"><head><meta charset="UTF-8"/><meta name="viewport" content="width=device-width, initial-scale=1.0"/><meta name="theme-color" content="#0a1420"/><meta name="description" content="جتینو؛ سفارش غذای محلی در بندر خمیر"/><link rel="manifest" href="/manifest.webmanifest"/><link rel="icon" type="image/svg+xml" href="/icons/jetino.svg"/><link rel="apple-touch-icon" href="/icons/apple-touch-icon.png"/><link rel="icon" type="image/png" sizes="32x32" href="/icons/favicon-32.png"/><title>جتینو | سفارش غذای محلی</title><script>
+<html lang="fa" dir="rtl"><head><meta charset="UTF-8"/><meta name="viewport" content="width=device-width, initial-scale=1.0"/><meta name="theme-color" content="#0a1420"/><meta name="description" content="جتینو؛ سفارش غذای محلی و خرید از سوپرمارکت در بندر خمیر"/><link rel="manifest" href="/manifest.webmanifest"/><link rel="icon" type="image/svg+xml" href="/icons/jetino.svg"/><link rel="apple-touch-icon" href="/icons/apple-touch-icon.png"/><link rel="icon" type="image/png" sizes="32x32" href="/icons/favicon-32.png"/><title>جتینو | غذا و خرید خانه در بندر خمیر</title><script>
   // Resolve the saved appearance before the first paint so a reload never flashes the wrong palette.
   (function () {
     try {

diff --git a/docs/GROCERY.md b/docs/GROCERY.md
@@ -124,6 +124,15 @@ OPEN ──(قبول پیشنهاد)──► ASSIGNED ──(شروع خرید)
   به کارت فروشگاه، و پیام وضعیت برای همهٔ حالتهای `OPEN` تا `DELIVERED`/`CANCELLED`.
 - استایلها: بخش ۲۴ در `src/next.css` (کلاسهای `grocery-*`, `grocery-admin-*`, `.ltr-input`).
 
+### ویترین دو سرویسی
+
+- صفحهٔ اصلی دیگر فقط غذا نیست: نوار `#grocery` (بخش ۲۵ در `src/next.css`) سه گام خرید خانه را
+  نشان میدهد، دکمهٔ «خرید خانه» در دسترسی سریع و تب `خرید خانه` در نوار پایین به `/grocery` میرود.
+- تصاویر تازه: `public/images/grocery-flow.jpg` (باند سوپرمارکت)، `public/images/cat-grocery.jpg`
+  (کارت کسبوکارهای سوپرمارکتی، با کلیدواژههای «سوپرمارکت/هایپر/میوه/لبنیات…» در `catalogImages.ts`)
+  و `hero-night.jpg` بازسازی شد تا پیک هم جعبهٔ غذا و هم سبد خرید را حمل کند.
+- متنهای عمومی (عنوان صفحه، manifest، README، هدر چکاوت) از «سفارش غذا» به «غذا و خرید خانه» تغییر کرد.
+
 ## ۷) پنل ادمین — سوپرمارکت
 
 `src/AdminGrocery.tsx` داخل صفحهٔ `/admin` («تنظیمات مالی») رندر میشود و شامل:

diff --git a/README.md b/README.md
@@ -1,6 +1,6 @@
 # جتینو (Jetino)
 
-پروژهٔ PWA فارسی سفارش غذای محلی برای بندر خمیر. محدودهٔ نسخهٔ اولیه و تصمیمهای باز در `PRD.md` و `Master_Project_Context.md` ثبت شدهاند.
+پروژهٔ PWA فارسی برای دو سرویس محلی بندر خمیر: **سفارش غذای محلی** و **خرید از سوپرمارکت با لیست متنی** (پیک میخرد و میآورد). محدودهٔ نسخهٔ اولیه و تصمیمهای باز در `PRD.md` و `Master_Project_Context.md` ثبت شدهاند.
 
 ## اجرای رابط کاربری
 
